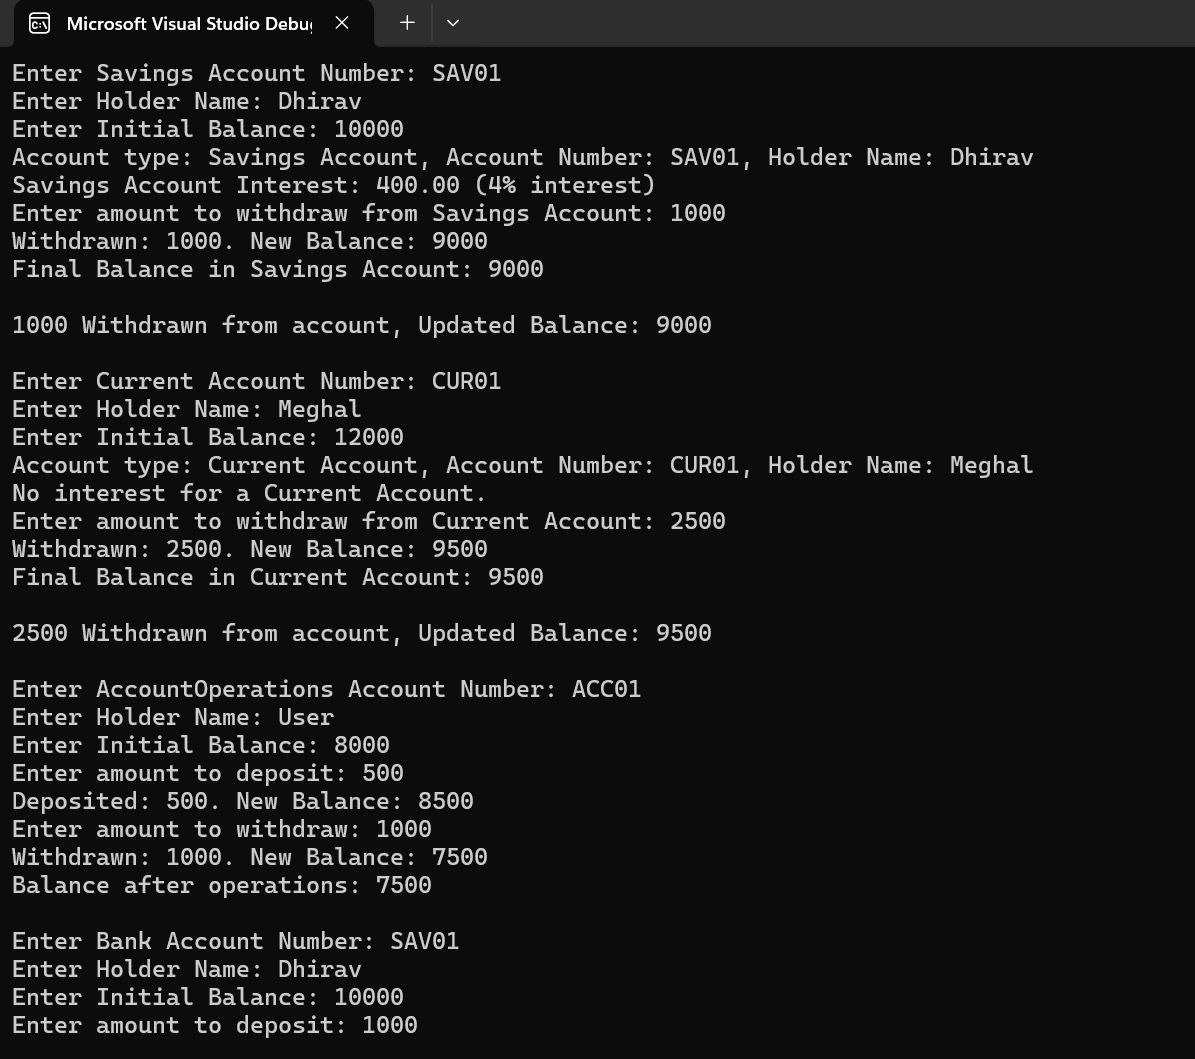
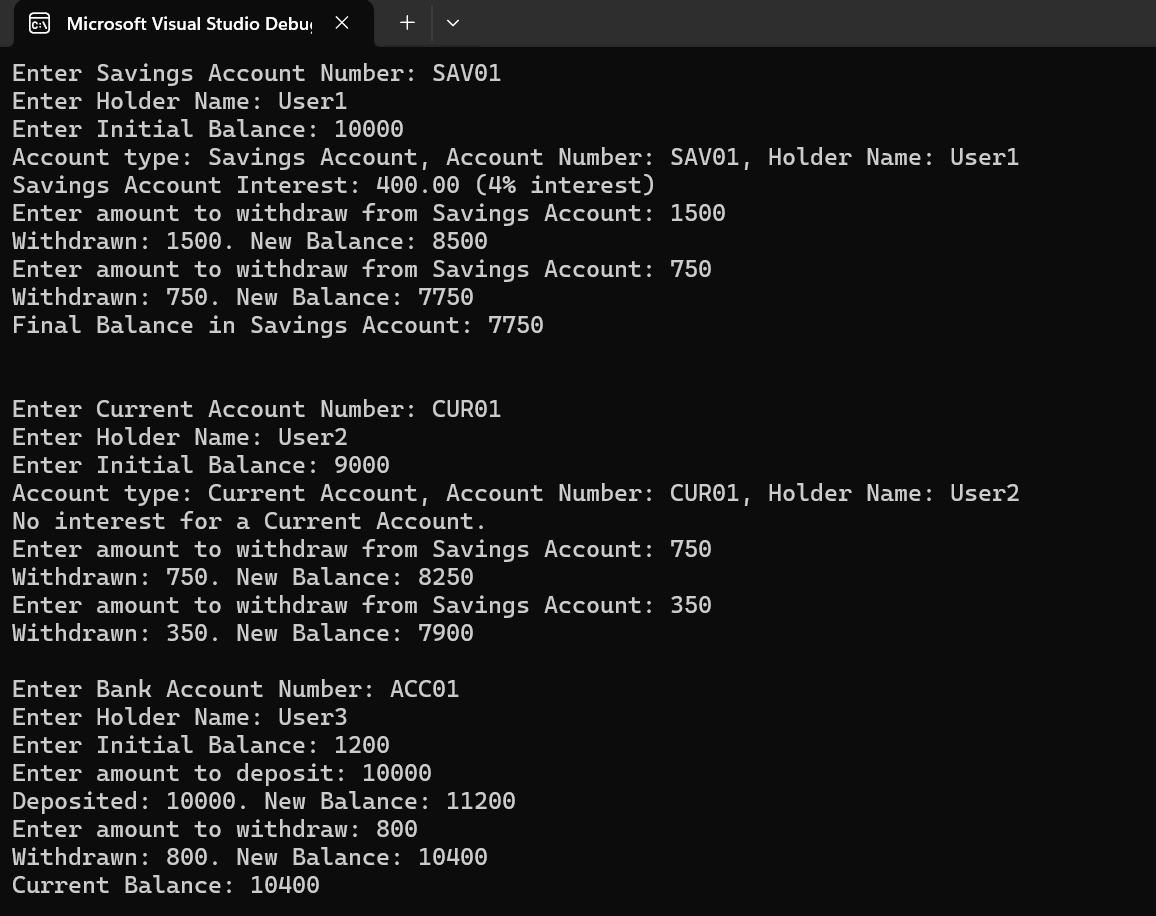
Update....

Changed region(s): [[0.0, 0.0, 1.0, 0.9782]]

diff --git a/OOPs_Day2/Program.cs b/OOPs_Day2/Program.cs
@@ -10,6 +10,7 @@ namespace OOPs_Day2
             {
                 // Create a Transaction Logger
                 TransactionLogger logger = new TransactionLogger();
+                AccountOperations accountOperations = new AccountOperations();
 
                 // User input for Savings Account
                 Console.Write("Enter Savings Account Number: ");
@@ -18,16 +19,18 @@ namespace OOPs_Day2
                 string savingsHolderName = Console.ReadLine();
                 Console.Write("Enter Initial Balance: ");
                 decimal savingsBalance = decimal.Parse(Console.ReadLine());
-
                 SavingsAccount savingsAccount = new SavingsAccount(savingsAccNo, savingsHolderName, savingsBalance);
                 savingsAccount.DisplayAccountInfo();
                 savingsAccount.CalculateInterest();
                 Console.Write("Enter amount to withdraw from Savings Account: ");
                 decimal savingsWithdraw = decimal.Parse(Console.ReadLine());
-                savingsAccount.Withdraw(savingsWithdraw);
+                accountOperations.Withdraw(savingsAccount, savingsWithdraw);
+                Console.Write("Enter amount to withdraw from Savings Account: ");
+                decimal savingsDeposit = decimal.Parse(Console.ReadLine());
+                accountOperations.Withdraw(savingsAccount, savingsDeposit);
                 Console.WriteLine($"Final Balance in Savings Account: {savingsAccount.Balance}\n");
-
                 logger.LogTransaction(savingsAccount);
+
 
                 // User input for Current Account
                 Console.Write("Enter Current Account Number: ");
@@ -36,35 +39,18 @@ namespace OOPs_Day2
                 string currentHolderName = Console.ReadLine();
                 Console.Write("Enter Initial Balance: ");
                 decimal currentBalance = decimal.Parse(Console.ReadLine());
-
                 CurrentAccount currentAccount = new CurrentAccount(currentAccNo, currentHolderName, currentBalance);
                 currentAccount.DisplayAccountInfo();
                 currentAccount.CalculateInterest();
-                Console.Write("Enter amount to withdraw from Current Account: ");
+                Console.Write("Enter amount to withdraw from Savings Account: ");
                 decimal currentWithdraw = decimal.Parse(Console.ReadLine());
-                currentAccount.Withdraw(currentWithdraw);
-                Console.WriteLine($"Final Balance in Current Account: {currentAccount.Balance}\n");
-
+                accountOperations.Withdraw(currentAccount, currentWithdraw);
+                Console.Write("Enter amount to withdraw from Savings Account: ");
+                decimal currentDeposit = decimal.Parse(Console.ReadLine());
+                accountOperations.Withdraw(currentAccount, currentDeposit);
                 logger.LogTransaction(currentAccount);
 
-                // User input for AccountOperations
-                Console.Write("Enter AccountOperations Account Number: ");
-                string accOpsNo = Console.ReadLine();
-                Console.Write("Enter Holder Name: ");
-                string accOpsHolderName = Console.ReadLine();
-                Console.Write("Enter Initial Balance: ");
-                decimal accOpsBalance = decimal.Parse(Console.ReadLine());
 
-                AccountOperations accountOperations = new AccountOperations(accOpsNo, accOpsHolderName, accOpsBalance);
-                Console.Write("Enter amount to deposit: ");
-                decimal depositAmount = decimal.Parse(Console.ReadLine());
-                accountOperations.Deposit(depositAmount);
-
-                Console.Write("Enter amount to withdraw: ");
-                decimal withdrawAmount = decimal.Parse(Console.ReadLine());
-                accountOperations.Withdraw(withdrawAmount);
-
-                Console.WriteLine($"Balance after operations: {accountOperations.CheckBalance()}\n");
 
                 // User input for BankAccount with IBankingOperations
                 Console.Write("Enter Bank Account Number: ");

diff --git a/OOPs_Day2/Account.cs b/OOPs_Day2/Account.cs
@@ -23,6 +23,25 @@ namespace OOPs_Day2
         }
     }
 
+
+    public partial class AccountOperations 
+    {
+        //public AccountOperations(string accNo, string holderName, decimal balance) : base(accNo, holderName, balance) { }
+
+        public decimal CheckBalance(Account acc)
+        {
+            try
+            {
+                return acc.Balance;
+            }
+            catch (Exception ex)
+            {
+                Console.WriteLine($"Error checking balance: {ex.Message}");
+                return 0;
+            }
+        }
+    }
+
     public class Account
     {
         private string _accountNumber;
@@ -110,25 +129,6 @@ namespace OOPs_Day2
                 Console.WriteLine($"Error calculating interest: {ex.Message}");
             }
         }
-
-        public void Withdraw(decimal amount)
-        {
-            try
-            {
-                if (amount <= 0)
-                    throw new ArgumentException("Withdrawal amount must be positive.");
-                if (amount > this.Balance)
-                    throw new InvalidOperationException("Insufficient balance.");
-
-                Balance -= amount;
-                AddTransaction($"{amount} Withdrawn from account, Updated Balance: {this.Balance}");
-                Console.WriteLine($"Withdrawn: {amount}. New Balance: {Balance}");
-            }
-            catch (Exception ex)
-            {
-                Console.WriteLine($"Error processing withdrawal: {ex.Message}");
-            }
-        }
     }
 
     class CurrentAccount : Account
@@ -158,42 +158,12 @@ namespace OOPs_Day2
                 Console.WriteLine($"Error calculating interest: {ex.Message}");
             }
         }
-
-        public void Withdraw(decimal amount)
-        {
-            try
-            {
-                if (amount <= 0)
-                    throw new ArgumentException("Withdrawal amount must be positive.");
-                if (amount > this.Balance)
-                    throw new InvalidOperationException("Insufficient balance.");
-
-                Balance -= amount;
-                AddTransaction($"{amount} Withdrawn from account, Updated Balance: {this.Balance}");
-                Console.WriteLine($"Withdrawn: {amount}. New Balance: {Balance}");
-            }
-            catch (Exception ex)
-            {
-                Console.WriteLine($"Error processing withdrawal: {ex.Message}");
-            }
-        }
     }
 
-    public partial class AccountOperations : Account
-    {
-        public AccountOperations(string accNo, string holderName, decimal balance) : base(accNo, holderName, balance) { }
-
-        public decimal CheckBalance()
-        {
-            try
-            {
-                return Balance;
-            }
-            catch (Exception ex)
-            {
-                Console.WriteLine($"Error checking balance: {ex.Message}");
-                return 0;
-            }
-        }
-    }
 }
+
+
+
+
+//SavingsAccount(with interest calculation).
+//CurrentAccount(with overdraft limit).

diff --git a/OOPs_Day2/BankAccount.cs b/OOPs_Day2/BankAccount.cs
@@ -1,10 +1,4 @@
-using System;
-using System.Collections.Generic;
-using System.Linq;
-using System.Text;
-using System.Threading.Tasks;
-
-namespace OOPs_Day2
+namespace OOPs_Day2
 {
     class BankAccount : BankServices, IBankingOperations
     {
@@ -86,7 +80,7 @@ namespace OOPs_Day2
 
         decimal IBankingOperations.GetBalance()
         {
-            return _balance;
+            return Balance;
         }
     }
 
@@ -106,16 +100,16 @@ namespace OOPs_Day2
         decimal GetBalance();
     }
 
-    public partial class AccountOperations : Account
+    public partial class AccountOperations
     {
-        public void Deposit(decimal amount)
+        public void Deposit(Account acc, decimal amount)
         {
             try
             {
                 if (amount <= 0)
                     throw new ArgumentException("Deposit amount must be positive.");
-                Balance += amount;
-                Console.WriteLine($"Deposited: {amount}. New Balance: {Balance}");
+                acc.Balance += amount;
+                Console.WriteLine($"Deposited: {amount}. New Balance: {acc.Balance}");
             }
             catch (Exception ex)
             {
@@ -123,16 +117,16 @@ namespace OOPs_Day2
             }
         }
 
-        public void Withdraw(decimal amount)
+        public void Withdraw(Account acc, decimal amount)
         {
             try
             {
                 if (amount <= 0)
                     throw new ArgumentException("Withdrawal amount must be positive.");
-                if (amount > Balance)
+                if (amount > acc.Balance)
                     throw new InvalidOperationException("Insufficient balance.");
-                Balance -= amount;
-                Console.WriteLine($"Withdrawn: {amount}. New Balance: {Balance}");
+                acc.Balance -= amount;
+                Console.WriteLine($"Withdrawn: {amount}. New Balance: {acc.Balance}");
             }
             catch (Exception ex)
             {
